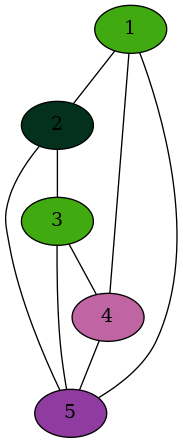
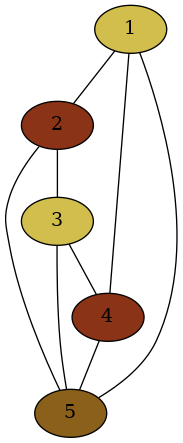
version finale - ajout du deuxieme algorithme PSO, Commentaires et correxction de bugs

diff --git a/Coloration_Graph_Ewen_Jihed.py b/Coloration_Graph_Ewen_Jihed.py
@@ -43,6 +43,7 @@ def maximum(x,y) :
 #Cette fonction génère un graph aléatoire, connexe et sans cycle 
 #Ce graphe n'est pas forcément planaire
 def arbitaryGraph(nodes, numberEdges):
+    
     l=list(range(1,nodes+1))
     #S est l'ensemble des noeuds non connéctés 
     #T est l'ensemble des noeuds connectés 
@@ -90,7 +91,7 @@ def edgeInsert():
                 assert l1>0 and c1>0
                 L =str(l1)+' '+str(c1)
                 L2=str(c1)+' '+str(l1)
-                assert(L not in listNoeud) and (L2 not in listNoeud)# and((l1<=maxi+1 and c1<=maxi) or(l1<=maxi and c1<=maxi+1))
+                assert(L not in listNoeud) and (L2 not in listNoeud) and((l1!=c1))
             except:
                 if (l1==c1):
                     insertError('Il ne faut pas avoir de cycle')
@@ -135,6 +136,7 @@ def afficherGraph():
     photo = ImageTk.PhotoImage(image)
     canvas.create_image(0,0, anchor=NW, image=photo)
     graphColorFinal()      
+
 
 def calculnodesnumber(l):
     ls=[]
@@ -195,30 +197,30 @@ def graphColorAlgorithm():
         mat[y][x]=1
     #print(mat)
     #la fitness d'un noeud est le nombre de noeuds voisin ayant la même couleur que lui
-    #ainsi la fitness d'un noeud est donée par "color_neighbors[i].count(color[i])"
+    #ainsi la fitness d'un noeud est donée par "neighborColors[i].count(color[i])"
     #la fitness du graphe est le maximum des ftness de tout ses noeuds
     done=False
-    color_neighbors=[] 
+    neighborColors=[] 
     for i in range(nodes):
-        color_neighbors.append([])
+        neighborColors.append([])
     while(not done):
         for i in range(nodes):
-            color_neighbors[i]=[]
+            neighborColors[i]=[]
             for j in range(nodes):
                 if mat[i][j]==1:
-                    color_neighbors[i].append(color[j]) 
+                    neighborColors[i].append(color[j]) 
         max=0
         indexMax=-1
         for i in range(nodes):
-            if max<color_neighbors[i].count(color[i]):
-                max=color_neighbors[i].count(color[i])
+            if max<neighborColors[i].count(color[i]):
+                max=neighborColors[i].count(color[i])
                 indexMax=i
         if indexMax==-1:
             done=True # if no node have same color as its neighbors than done!
         else:
             color[indexMax]=color[indexMax]-1 # else node change its color
     print(color)
-    print(color_neighbors)
+    print(neighborColors)
     return color
 
 
@@ -246,54 +248,43 @@ def graphColorAlgorithmMPSO():
         mat[y][x]=1
     #print(mat)
     #la fitness d'un noeud est le nombre de noeuds voisin ayant la même couleur que lui
-    #ainsi la fitness d'un noeud est donée par "color_neighbors[i].count(color[i])"
+    #ainsi la fitness d'un noeud est donée par "neighborColors[i].count(color[i])"
     #la fitness du graphe est le maximum des ftness de tout ses noeuds
-    done=False
-    color_neighbors=[] 
+    test=False
+    neighborColors=[] 
     for i in range(nodes):
-        color_neighbors.append([])
+        neighborColors.append([])
+        
+        
     V=[0 for i in range(nodes)]
-    w=0.7  #le coefficient dâ€™inertie qui contrÃ´le la contribution de la vÃ©locitÃ©
-    c1=0.3 #coefficient en rapport avec pbest
-    c2=0.4 #coefficient en rapport avec gbest
-    while(not done):
+    w=0.7  #le coefficient d'inertie en relation avec la vélocité
+    c1=0.3 
+    c2=0.4 
+   
+    while(not test):
         for i in range(nodes):
-            color_neighbors[i]=[]
+            neighborColors[i]=[]
             for j in range(nodes):
                 if mat[i][j]==1:
-                    color_neighbors[i].append(color[j]) 
+                    neighborColors[i].append(color[j]) 
         for i in range(len(color)):
             L=liste_voisin(i+1)
             g=random.choice(L)-1
             rand=random.random()
-            V[i]=w*V[i]+c1*rand*(color_neighbors[i].count(color[i])-color[i])+c2*rand*(color[g]-color[i])
+            V[i]=w*V[i]+c1*rand*(neighborColors[i].count(color[i])-color[i])+c2*rand*(color[g]-color[i])
             color[i]= (color[i]+f(V[i],rand))%4
         for i in range(nodes):
-            color_neighbors[i]=[]
+            neighborColors[i]=[]
             for j in range(nodes):
                 if mat[i][j]==1:
-                    color_neighbors[i].append(color[j]) 
+                    neighborColors[i].append(color[j]) 
         max=0
         for i in range(nodes):
-            if max<color_neighbors[i].count(color[i]):
-                max=color_neighbors[i].count(color[i])
-        print("**********************************")
-        print(color)
-        print(color_neighbors)
+            if max<neighborColors[i].count(color[i]):
+                max=neighborColors[i].count(color[i])
         if (max==0):
-            done=True
-
-        '''
-        max=0
-        indexMax=-1
-        for i in range(nodes):
-            if max<color_neighbors[i].count(color[i]):
-                max=color_neighbors[i].count(color[i])
-                indexMax=i
-        if indexMax==-1:
-            done=True # if no node have same color as its neighbors than done!
-        else:
-            color[indexMax]=color[indexMax]-1 # else node change its color'''
+            test=True
+    
     for i in range(len(color)):
         color[i]+=1
     print(color)
@@ -345,8 +336,8 @@ def graphColorFinal():
     canvas.pack()  
     photo1 = ImageTk.PhotoImage(image1)
     canvas.create_image(0,0, anchor=NW, image=photo1)
-    insertHint("Nombre chromatique = "+str( max(color)+1))
-            
+    insertHint("Nombre chromatique = "+ str(len( set(color))))            
+    
 #this function prints and returns the operation choice
 def genererGraphAleatoire():
     global listNoeud
@@ -368,7 +359,6 @@ def genererGraphAleatoire():
             assert l2>0 and l2-2<c2<((l2*(l2-1)/2)+1)
         except:
             insertError("Nombre d'arcs maximal est {nm}:".format(nm= l2*(l2-1)/2))
-            reset()
             return
         listNoeud=arbitaryGraph(l2,c2)
     afficherGraph()
@@ -379,21 +369,21 @@ def onOperationSelection(value):
         frame22Bis1.forget()
         frame22.pack(fill="x" ,pady=(0,6))
         frame21.forget()
-        insertHint('Insérer les arêtes ligne par ligne, les aretes doivent etre ordonnées el graphe connexe ')
+        insertHint('Insérer les arêtes ligne par ligne, les aretes doivent etre ordonnées et le graphe connexe ')
 
     elif (value=='Générer un graphe aléatoire' ):
         frame22.forget()
         frame22Bis1.forget()
         frame22Bis.pack(fill="x" ,pady=(0,6))
         frame21.forget()
-        insertHint('Lecture du graphe à partir du fichier graphe.txt ')
+        insertHint('La fonction genererGraphAleatoire génerera le graphe voulu')
     elif ( value=="MPSO"):
         frame22.forget()
 
         frame22Bis1.pack(fill="x" ,pady=(0,6))
         frame21.forget()
         frame22Bis.forget()
-
+        insertHint('Lecture du graphe à partir du fichier graphe.txt ')
 #this function takes the Error text (String) and display in it's section
 def insertError(ErrorString):
     ErrorStringV.set(ErrorString)
